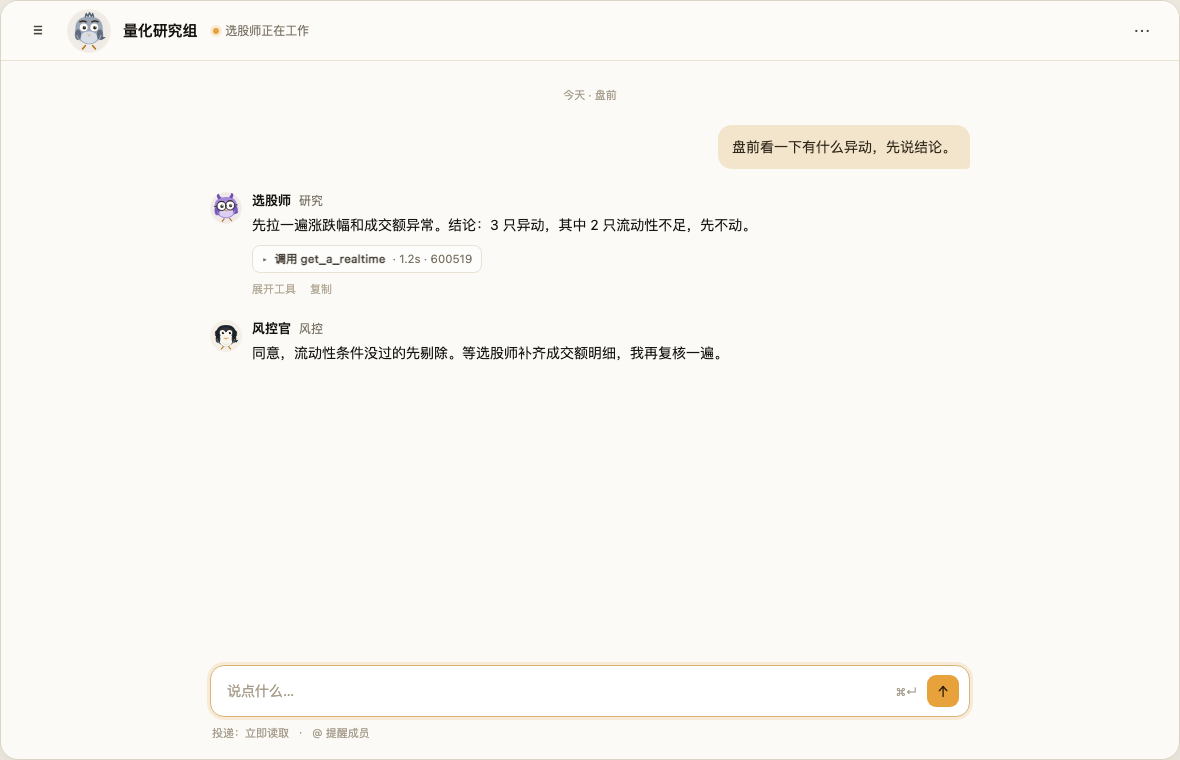
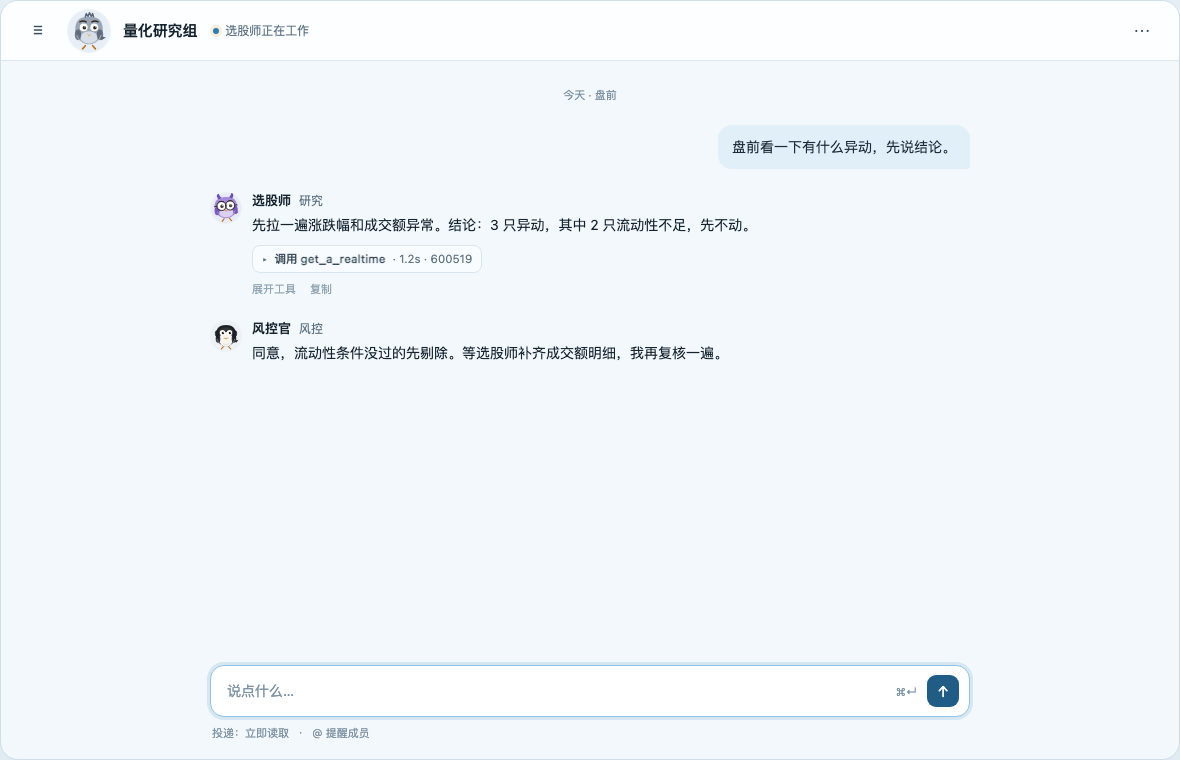
docs(design): switch the proposed UI to light blue and white
The app palette becomes a light-blue canvas with white surfaces: blue-black text, pale blue user
bubbles, a single deep-blue accent for primary actions and focus, and hairline borders in a cool
blue-grey. Birds keep their feather colours and stay the only saturated element. Concept mockups for
the room, settings and mobile screens are regenerated with the new palette; the design doc tokens and
decisions are updated to match.

diff --git a/docs/design/mockups/ui-refresh.html b/docs/design/mockups/ui-refresh.html
@@ -2,20 +2,20 @@
 <html lang="zh-CN"><head><meta charset="utf-8"><title>Roost UI 概念稿</title>
 <style>
 :root {
-  --canvas:#FBFAF7; --surface:#FFFFFF; --sunken:#F4EFE5; --ink:#17140F; --ink2:#4A443A; --muted:#7C7466;
-  --line:#E8E1D4; --accent:#B8761F; --accent-fill:#E8A23B; --danger:#B3423A; --ok:#5E7D4F;
+  --canvas:#F2F8FC; --surface:#FFFFFF; --sunken:#EAF2F8; --ink:#15232E; --ink2:#3B4E5D; --muted:#5F7485;
+  --line:#D9E6F0; --accent:#1F5C86; --accent-fill:#2F7CAF; --danger:#B24A45; --ok:#4E7D6A;
   --font:"Inter","SF Pro Display",-apple-system,BlinkMacSystemFont,"PingFang SC","Hiragino Sans GB",sans-serif;
 }
 * { box-sizing:border-box; }
-body { margin:0; padding:44px 40px 64px; background:#ECE8DF; color:var(--ink); font-family:var(--font); }
-.label { margin:0 0 10px; color:#8A8173; font-size:11px; letter-spacing:.12em; text-transform:uppercase; }
-.artboard { margin:0 0 44px; background:var(--canvas); border:1px solid #DCD4C4; border-radius:18px; overflow:hidden; box-shadow:0 20px 50px -30px rgba(50,35,10,.35); }
+body { margin:0; padding:44px 40px 64px; background:#E4EEF5; color:var(--ink); font-family:var(--font); }
+.label { margin:0 0 10px; color:#6C8091; font-size:11px; letter-spacing:.12em; text-transform:uppercase; }
+.artboard { margin:0 0 44px; background:var(--canvas); border:1px solid #CFDEE9; border-radius:18px; overflow:hidden; box-shadow:0 20px 50px -30px rgba(30,60,90,.28); }
 .room { width:1180px; height:760px; display:flex; flex-direction:column; }
 .settings { width:1180px; height:760px; display:flex; flex-direction:column; }
 .mobile { width:390px; height:780px; display:flex; flex-direction:column; }
 
 /* top bar */
-.top { display:flex; align-items:center; gap:12px; height:60px; padding:0 20px; border-bottom:1px solid var(--line); background:rgba(251,250,247,.86); }
+.top { display:flex; align-items:center; gap:12px; height:60px; padding:0 20px; border-bottom:1px solid var(--line); background:rgba(255,255,255,.82); }
 .icon-btn { display:inline-flex; align-items:center; justify-content:center; width:34px; height:34px; border-radius:10px; border:1px solid transparent; background:transparent; color:var(--ink2); font-size:17px; }
 .icon-btn:hover { background:var(--sunken); }
 .room-title { font-size:15px; font-weight:650; letter-spacing:-.01em; }
@@ -30,7 +30,7 @@ body { margin:0; padding:44px 40px 64px; background:#ECE8DF; color:var(--ink); f
 /* messages */
 .body { flex:1; overflow:hidden; padding:26px 0 0; display:flex; justify-content:center; }
 .thread { width:760px; display:flex; flex-direction:column; gap:22px; }
-.day { text-align:center; color:#A79D8D; font-size:11px; }
+.day { text-align:center; color:#7D92A3; font-size:11px; }
 .msg { display:flex; align-items:flex-start; gap:10px; }
 .msg.user { justify-content:flex-end; }
 .msg .avatar { flex:none; align-self:flex-start; margin-top:1px; }
@@ -38,28 +38,28 @@ body { margin:0; padding:44px 40px 64px; background:#ECE8DF; color:var(--ink); f
 .name { font-size:13px; font-weight:650; }
 .role { color:var(--muted); font-size:12px; }
 .text { font-size:14px; line-height:1.72; color:var(--ink); }
-.user-bubble { max-width:440px; padding:10px 14px; border-radius:14px 14px 4px 14px; background:#F2E5CB; color:#2E2619; font-size:14px; line-height:1.7; }
+.user-bubble { max-width:440px; padding:10px 14px; border-radius:14px 14px 4px 14px; background:#E1EFF9; color:#1B2C38; font-size:14px; line-height:1.7; }
 .tool { display:inline-flex; align-items:center; gap:7px; margin-top:8px; padding:5px 9px; border:1px solid var(--line); border-radius:8px; color:var(--muted); font-size:11.5px; background:rgba(255,255,255,.55); }
 .tool b { color:var(--ink2); font-weight:550; }
-.msg-actions { display:flex; gap:14px; margin-top:8px; color:#B3A996; font-size:11px; }
+.msg-actions { display:flex; gap:14px; margin-top:8px; color:#8FA3B2; font-size:11px; }
 
 /* composer */
 .composer-wrap { padding:14px 20px 18px; }
 .composer { width:760px; margin:0 auto; }
 .input { display:flex; align-items:center; gap:10px; height:52px; padding:0 10px 0 16px; background:var(--surface); border:1px solid var(--line); border-radius:14px; }
-.input.focus { border-color:#D9B477; box-shadow:0 0 0 3px rgba(232,162,59,.16); }
-.placeholder { flex:1; color:#A79D8D; font-size:14px; }
-.kbd { color:#A79D8D; font-size:11px; }
-.send { display:inline-flex; align-items:center; justify-content:center; width:32px; height:32px; border-radius:9px; background:var(--accent-fill); color:#2B1D08; font-size:15px; }
-.hint { margin:8px 2px 0; color:#A79D8D; font-size:11px; display:flex; gap:10px; }
+.input.focus { border-color:#8FC3E8; box-shadow:0 0 0 3px rgba(47,124,175,.14); }
+.placeholder { flex:1; color:#7D92A3; font-size:14px; }
+.kbd { color:#7D92A3; font-size:11px; }
+.send { display:inline-flex; align-items:center; justify-content:center; width:32px; height:32px; border-radius:9px; background:#1F5C86; color:#FFFFFF; font-size:15px; }
+.hint { margin:8px 2px 0; color:#7D92A3; font-size:11px; display:flex; gap:10px; }
 
 /* settings */
 .settings-body { flex:1; display:flex; min-height:0; }
-.settings-nav { width:232px; padding:18px 12px; background:#F7F3EA; border-right:1px solid var(--line); }
-.settings-nav h3 { margin:6px 10px 8px; color:#A79D8D; font-size:10px; letter-spacing:.12em; text-transform:uppercase; font-weight:650; }
+.settings-nav { width:232px; padding:18px 12px; background:#EAF3FA; border-right:1px solid var(--line); }
+.settings-nav h3 { margin:6px 10px 8px; color:#7D92A3; font-size:10px; letter-spacing:.12em; text-transform:uppercase; font-weight:650; }
 .nav-item { display:flex; align-items:center; gap:10px; height:36px; padding:0 10px; border-radius:8px; color:var(--ink2); font-size:13px; }
-.nav-item.active { background:var(--surface); color:var(--ink); box-shadow:inset 2px 0 0 var(--accent-fill); font-weight:600; }
-.nav-item .n { margin-left:auto; color:#A79D8D; font-size:11px; }
+.nav-item.active { background:var(--surface); color:var(--ink); box-shadow:inset 2px 0 0 #2F7CAF; font-weight:600; }
+.nav-item .n { margin-left:auto; color:#7D92A3; font-size:11px; }
 .settings-main { flex:1; padding:34px 56px; overflow:hidden; }
 .settings-title { margin:0; font-size:26px; letter-spacing:-.03em; font-weight:700; }
 .settings-desc { margin:8px 0 26px; color:var(--muted); font-size:13px; }
@@ -73,8 +73,8 @@ body { margin:0; padding:44px 40px 64px; background:#ECE8DF; color:var(--ink); f
 .seg span { padding:5px 12px; border-radius:7px; color:var(--muted); font-size:12px; }
 .seg span.on { background:var(--surface); color:var(--ink); box-shadow:0 1px 2px rgba(50,35,10,.08); }
 .swatches { display:flex; gap:8px; }
-.swatch { width:18px; height:18px; border-radius:50%; background:var(--accent-fill); box-shadow:0 0 0 2px var(--surface), 0 0 0 3px rgba(232,162,59,.5); }
-.switch { width:38px; height:22px; border-radius:999px; background:#E2DACB; position:relative; }
+.swatch { width:18px; height:18px; border-radius:50%; background:var(--accent-fill); box-shadow:0 0 0 2px var(--surface), 0 0 0 3px rgba(47,124,175,.35); }
+.switch { width:38px; height:22px; border-radius:999px; background:#D5E3EE; position:relative; }
 .switch.on { background:var(--accent-fill); }
 .switch::after { content:""; position:absolute; top:3px; left:3px; width:16px; height:16px; border-radius:50%; background:#fff; }
 .switch.on::after { left:19px; }
@@ -132,7 +132,7 @@ body { margin:0; padding:44px 40px 64px; background:#ECE8DF; color:var(--ink); f
       <div class="group">
         <div class="row"><div class="row-label">主题<div class="row-desc">跟随系统或固定</div></div><div class="row-control"><div class="select">跟随系统 <span>⌄</span></div></div></div>
         <div class="row"><div class="row-label">密度<div class="row-desc">长对话建议舒适</div></div><div class="row-control"><div class="seg"><span class="on">舒适</span><span>紧凑</span></div></div></div>
-        <div class="row"><div class="row-label">强调色<div class="row-desc">只影响主操作与焦点</div></div><div class="row-control"><div class="swatches"><span class="swatch"></span><span class="swatch" style="background:#7C9473;box-shadow:0 0 0 2px var(--surface)"></span><span class="swatch" style="background:#8B8FA3;box-shadow:0 0 0 2px var(--surface)"></span><span class="swatch" style="background:#C97F67;box-shadow:0 0 0 2px var(--surface)"></span></div></div></div>
+        <div class="row"><div class="row-label">强调色<div class="row-desc">只影响主操作与焦点</div></div><div class="row-control"><div class="swatches"><span class="swatch" style="background:#2F7CAF"></span><span class="swatch" style="background:#6FA8CC;box-shadow:0 0 0 2px var(--surface)"></span><span class="swatch" style="background:#8FB6CF;box-shadow:0 0 0 2px var(--surface)"></span><span class="swatch" style="background:#5E7F9B;box-shadow:0 0 0 2px var(--surface)"></span></div></div></div>
         <div class="row"><div class="row-label">减少动效<div class="row-desc">关闭呼吸环与过渡</div></div><div class="row-control"><div class="switch"></div></div></div>
         <div class="row"><div class="row-label">消息密度<div class="row-desc">房间里的行距</div></div><div class="row-control"><div class="select">舒适 <span>⌄</span></div></div></div>
       </div>
